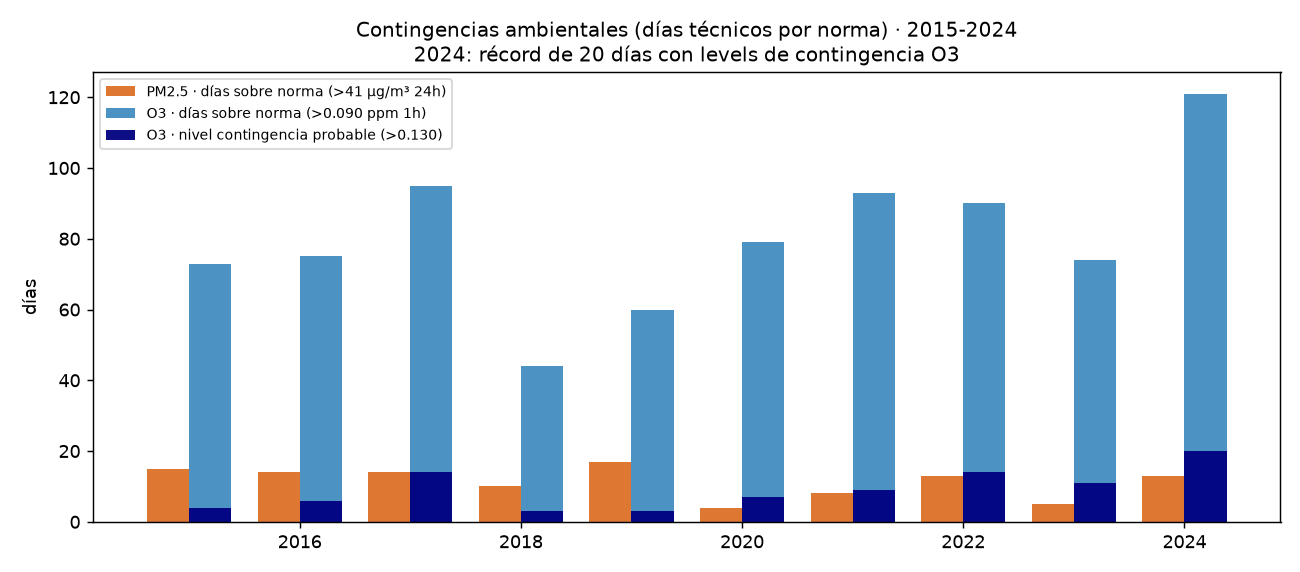
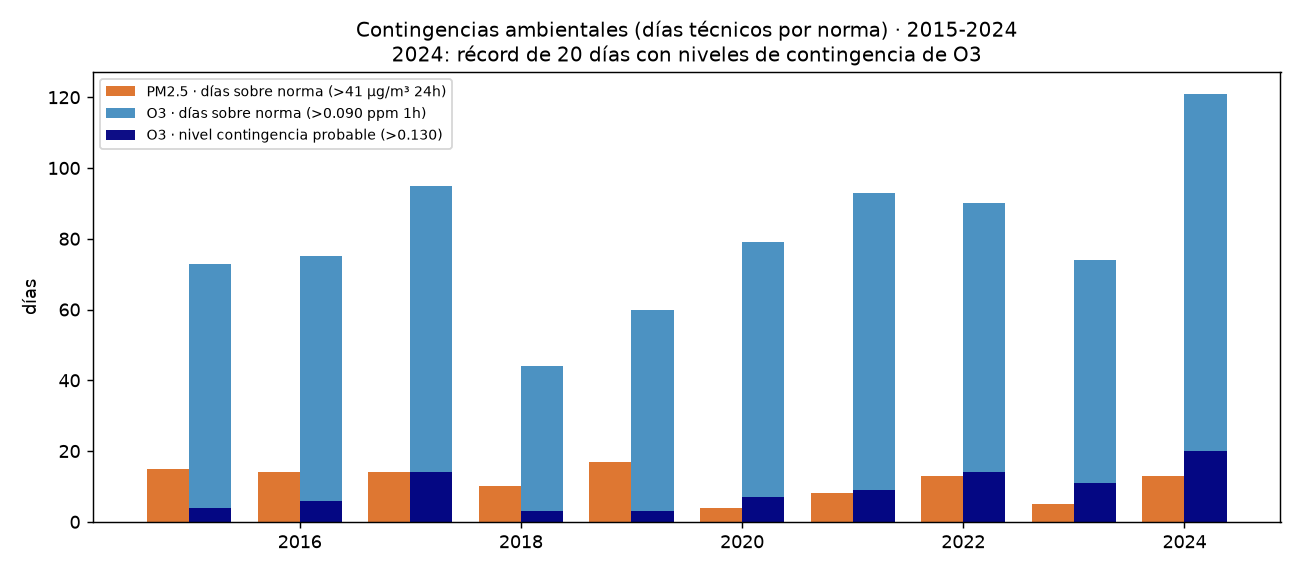
fix: review r2 — 2 afirmaciones de negocio falsas corregidas con datos verificados (9/13 estaciones mejoran; hotspot 2015 SO 34.8 vs 2024 NO 30.1), test de dedup idempotente (mutación confirmada), titulo fig_contingencias, guard div-cero en heatmap, textos menores

Changed region(s): [[0.3077, 0.0594, 0.7692, 0.1189]]

diff --git a/tests/test_pipeline.py b/tests/test_pipeline.py
@@ -10,6 +10,8 @@ Uso: .venv/Scripts/python -m pytest tests -v
 
 from __future__ import annotations
 
+import gzip
+import json
 import sys
 from datetime import date
 from pathlib import Path
@@ -17,7 +19,7 @@ from pathlib import Path
 REPO = Path(__file__).resolve().parents[1]
 sys.path.insert(0, str(REPO / "src" / "download"))
 
-from build_parquet import parse_raw_filename  # noqa: E402
+from build_parquet import load_raw, parse_raw_filename  # noqa: E402
 from sinaica_download import months_between, raw_path  # noqa: E402
 
 
@@ -43,3 +45,23 @@ def test_months_between_frontera_de_anio():
 
 def test_decenio_completo_120_meses():
     assert len(list(months_between(date(2015, 1, 1), date(2024, 12, 1)))) == 120
+
+
+def test_load_raw_dedup_idempotente(tmp_path):
+    # protegemos el fix del hallazgo-2: el downloader appende duplicados al
+    # re-ejecutarse y load_raw debe colapsarlos por (estacion_id, param, fecha, hora)
+    raw = tmp_path / "raw"
+    raw.mkdir()
+    fila = {"fecha": "2019-01-01", "hora": 1, "valor": 21.0, "val": 1}
+    duplicate = {**fila, "valor": 99.0}   # misma clave, valor distinto
+    with gzip.open(raw / "sinaica_148_O3.jsonl.gz", "wt", encoding="utf-8") as f:
+        for r in (fila, duplicate):
+            f.write(json.dumps(r) + "\n")
+
+    stations = tmp_path / "stations.csv"
+    stations.write_text("id,codigo\n148,SO2\n", encoding="utf-8")
+
+    df = load_raw(raw_dir=raw, stations_csv=stations)
+    assert len(df) == 1
+    assert df.iloc[0]["valor"] == 21.0   # conserva la primera, no suma
+

diff --git a/src/viz/charts.py b/src/viz/charts.py
@@ -76,7 +76,7 @@ def fig_contingencias() -> None:
     ax.bar(df["anio"] + w / 2, df["o3_dias_norma"], width=w, color=AZUL, alpha=0.85, label="O3 · días sobre norma (>0.090 ppm 1h)")
     ax.bar(df["anio"] + w / 2, df["o3_dias_contingencia"], width=w, color="navy", alpha=0.95, label="O3 · nivel contingencia probable (>0.130)")
     ax.set_ylabel("días")
-    ax.set_title("Contingencias ambientales (días técnicos por norma) · 2015-2024\n2024: récord de 20 días con levels de contingencia O3", fontsize=11)
+    ax.set_title("Contingencias ambientales (días técnicos por norma) · 2015-2024\n2024: récord de 20 días con niveles de contingencia de O3", fontsize=11)
     ax.legend(fontsize=8)
     fig.tight_layout()
     fig.savefig(IMG / "fig_contingencias.png", dpi=130)

diff --git a/src/download/build_parquet.py b/src/download/build_parquet.py
@@ -27,11 +27,13 @@ def parse_raw_filename(path: Path) -> tuple[int, str]:
     return int(est_id), param.replace("_", ".")
 
 
-def load_raw() -> pd.DataFrame:
-    stations = pd.read_csv(STATIONS_CSV)
+def load_raw(raw_dir: Path | None = None, stations_csv: Path | None = None) -> pd.DataFrame:
+    raw_dir = raw_dir or RAW_DIR
+    stations_csv = stations_csv or STATIONS_CSV
+    stations = pd.read_csv(stations_csv)
     id2code = dict(zip(stations["id"], stations["codigo"]))
     frames = []
-    for f in sorted(RAW_DIR.glob("sinaica_*_*.jsonl.gz")):
+    for f in sorted(raw_dir.glob("sinaica_*_*.jsonl.gz")):
         est_id, param = parse_raw_filename(f)
         rows = [json.loads(line) for line in gzip.open(f, "rt", encoding="utf-8")]
         if not rows:

diff --git a/src/viz/heatmap_folium.py b/src/viz/heatmap_folium.py
@@ -49,7 +49,13 @@ def build_map(data: pd.DataFrame, stations: pd.DataFrame, param: str, year: int 
         peso = est["media"] / 41.0  # norma diaria
     else:
         peso = (est["media"] * 1000.0) / 90.0  # ppm → ppb relativo a norma horaria
-    est["peso"] = (peso / peso.max()).clip(0.15, 1.0)
+    max_peso = peso.max()
+    # sin esto O3 queda ~0.3 en todas y el gradiente no se distingue;
+    # max_peso==0 (año sin datos del param) => heatmap vacío y silent NaN
+    if max_peso > 0:
+        est["peso"] = (peso / max_peso).clip(0.15, 1.0)
+    else:
+        est["peso"] = 0.5
 
     m = folium.Map(location=MTY_CENTER, zoom_start=10.5, tiles="OpenStreetMap")
     fmt = "{:.3f}" if param == "O3" else "{:.1f}"   # O3 en ppm necesita 3 decimales

diff --git a/src/analysis/run_queries.py b/src/analysis/run_queries.py
@@ -33,7 +33,7 @@ TABLE_RE = re.compile(r"aire-mty\.sima\.sima_horarios")
 
 
 def strip_comments(sql: str) -> str:
-    # textos multilínea con coma o fechass; sin strings, solo safe here
+    # quita líneas de comentario '--'; los SQL del repo no usan '--' dentro de strings
     return re.sub(r"(?m)^--.*\n?", "", sql)
 
 

diff --git a/dashboards/looker_studio_spec.md b/dashboards/looker_studio_spec.md
@@ -38,8 +38,8 @@ el modelo ELT completo queda reproducible: API → parquet → BigQuery → dash
    pega `SELECT * FROM \`aire-monterrey-bq.sima.sima_horarios\` WHERE validado = 1`).
    ⚠ Conexión con acceso "owner credentials" (así nadie necesita tu permiso de BQ).
 2. Monta las 4 páginas según la spec arriba (scorecards → tendencias → ranking → contingencias).
-3. **Verifica facturación inactive:** el explorador-conector consume queries del billing
-   del proyecto; el sandbox gratuito de BQ cubre 1 TB/mes de consulta — holgado.
+3. **Revisa la cuota:** el conector corre queries con el billing del proyecto;
+   el sandbox gratuito de BQ incluye 1 TB/mes de consulta — holgado para este dataset.
 4. Publica: botón **Share → Invite with link** (opción "View"), cambia "Restricted" a
    "Anyone with the link", copia URL y pégala en `README.md` reemplazando el placeholder
    "link pendiente". Conserva la data solo en modo lectura (no "Editor").

diff --git a/docs/resultados_2015_2024.md b/docs/resultados_2015_2024.md
@@ -43,8 +43,12 @@ CSV crudos en `outputs/` (regenerables con `src/analysis/run_queries.py`).
 - En PM2.5 domina el suroriente (Juárez/Cadereyta) — industria, tráfico pesado y
   contribución regional; en O3 dominan las estaciones del norte y del poniente alto.
 - **El cambio por décadas (outputs/03c.csv) es más interesante:** Juárez
-  **empeoró +36.8 %** en PM2.5 entre 2015-2019 y 2020-2024; Obispado (Centro) empeoró
-  +9.2 %. Ninguna estación mejoró en media.
+  **empeoró +36.8 %** en PM2.5 entre 2015-2019 y 2020-2024 (y la ITESM
+  Eugenio Garza +17.3 %, Obispado +9.2 %; Santa Catarina plana +0.5 %).
+  Las otras **9 de 13 estaciones con datos completos mejoraron**, y los ya
+  contaminados bajaron más: Apodaca (NE2) −18.1 %, San Bernabé (NO) −17.6 %,
+  UANL (N2) −17.3 %, García (NO2) −27.2 %. La historia es de convergencia
+  con una excepción: el sureste (Juárez) se despega y aún sube.
 
 ## 3. Contingencias y el peor día del decenio
 

diff --git a/README.md b/README.md
@@ -52,8 +52,10 @@ BigQuery: autenticar con `gcloud auth application-default login`
 
 ![Tendencia anual 2015-2024](docs/img/fig_tendencia_anual.png)
 
-**Heatmap PM2.5 sobre mapa real**: 2015 (7 estaciones) vs 2024 (red completa). El
-hotspot migró del poniente-centro (La Pastora) al sureste (Benito Juárez):
+**Heatmap PM2.5 sobre mapa real**: 2015 (7 estaciones) vs 2024 (red completa).
+En 2015 el hotspot estaba en el suroeste (Santa Catarina, 34.8 µg/m³); en 2024
+el máx es San Bernabé 30.1 y Juárez 29.2, que sube al trono del decenio
+(+36.8 % entre décadas, `docs/resultados_2015_2024.md`):
 
 | 2015 | 2024 |
 |---|---|
